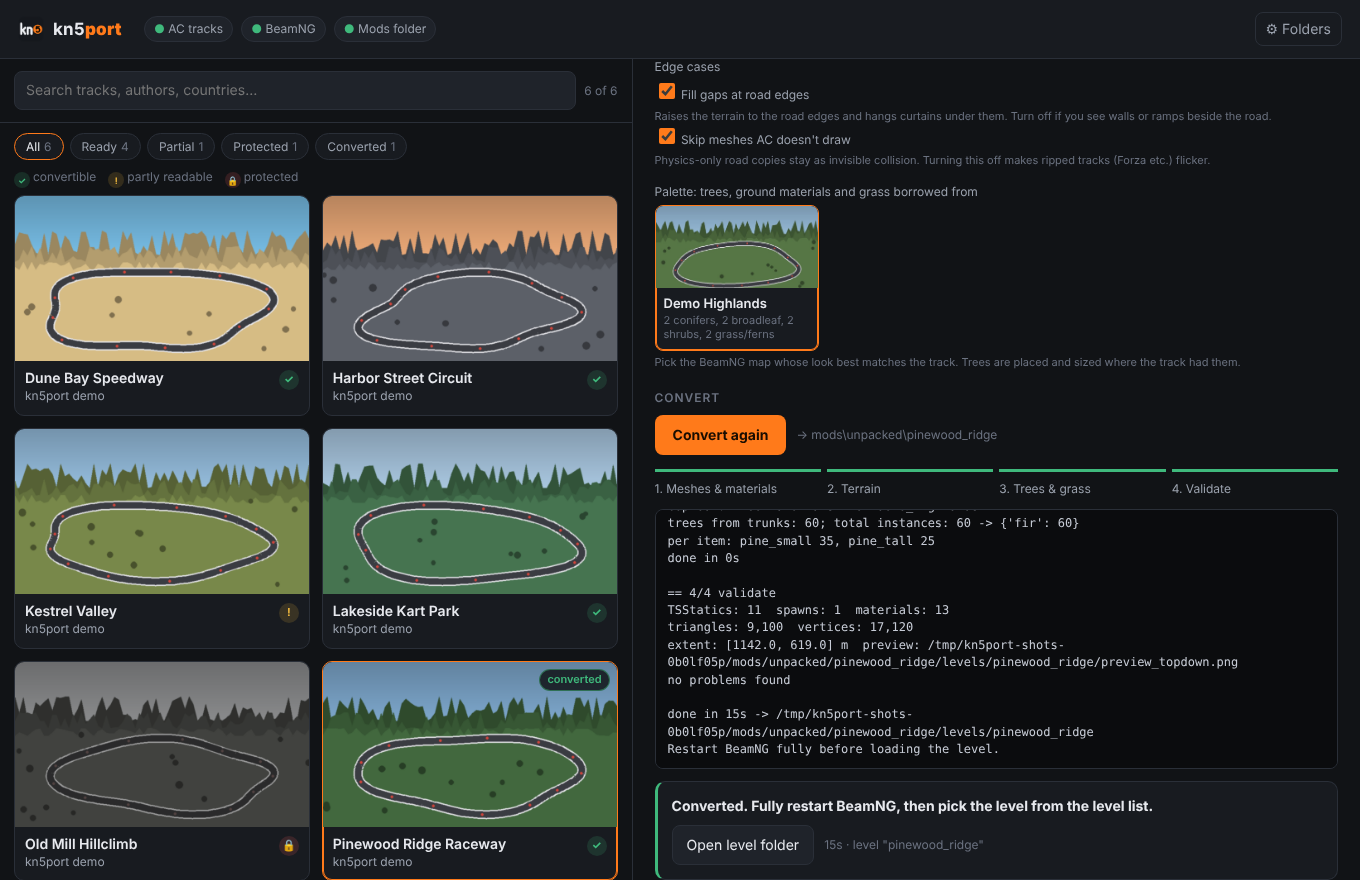
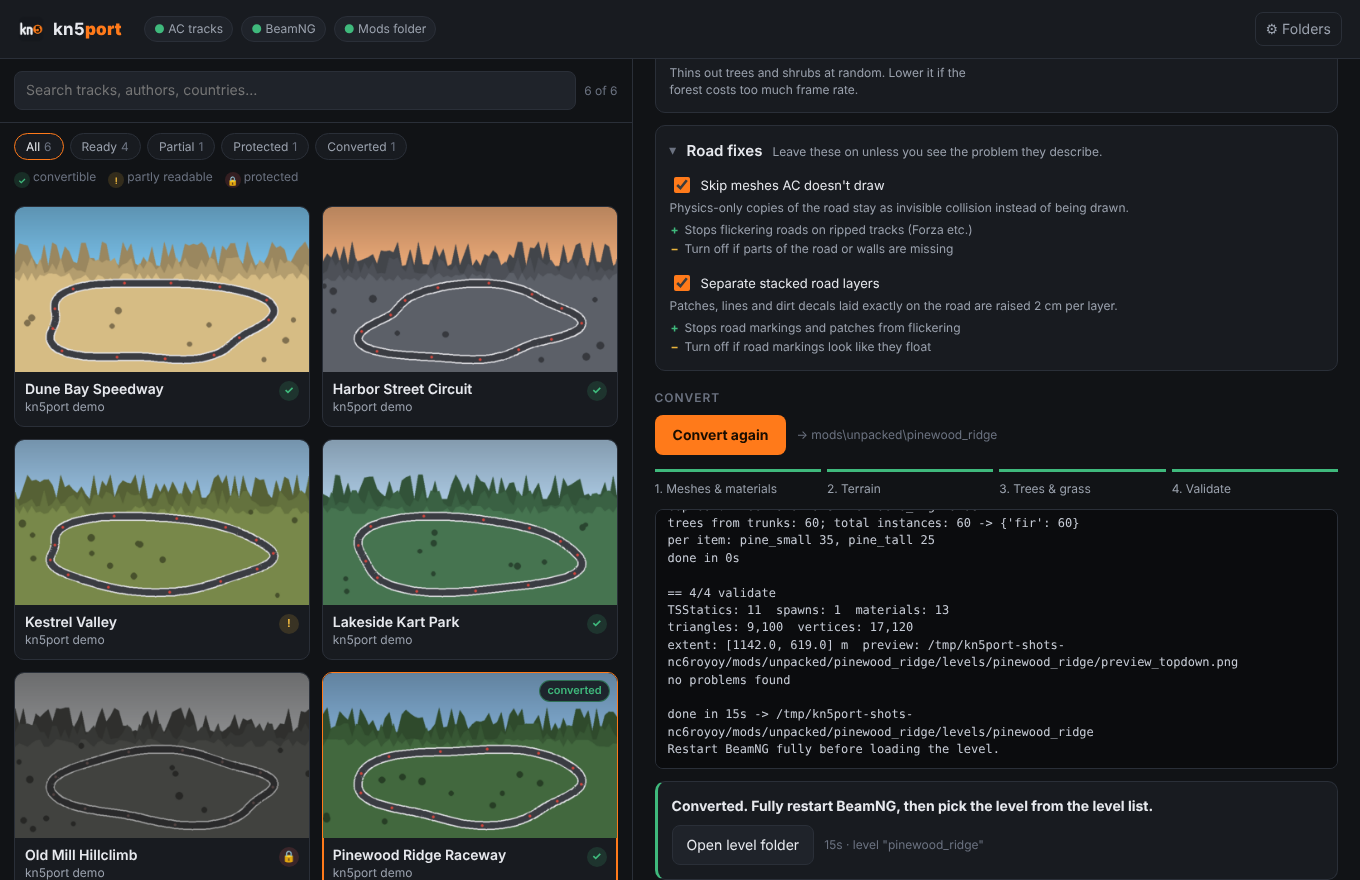
Redesign the conversion options with benefits and trade-offs (#5)
Group the options into Scenery style, Ground, Trees & grass and Road fixes.
Ground and Trees are choice cards listing what each option gains and costs;
sub-settings (terrain shading, edge fill, tree density) only show when they
apply. Descriptions name the selected palette map instead of always saying
West Coast USA, and the palette falls back to the first installed map when
West Coast USA isn't there.

Trees gains a Keep AC trees choice (--keep-ac-trees): unticking the old
checkbox removed every tree instead of keeping the originals.

Adds an options screenshot to the README and regenerates the others.

Claude-Session: https://claude.ai/code/session_01F2w93L6qBTh9nMnVU7MSJn

Changed region(s): [[0.0, 0.0614, 0.9574, 1.0], [0.4941, 0.8284, 0.525, 0.8591], [0.4941, 0.7364, 0.525, 0.767]]

diff --git a/kn5port/ui/static/index.html b/kn5port/ui/static/index.html
@@ -93,15 +93,41 @@ section h2 { font-size: 12px; text-transform: uppercase; letter-spacing: .08em; 
 .kv dt { color: var(--faint); }
 .kv dd { margin: 0; }
 .warnline { color: var(--warn); }
-.opts { display: grid; grid-template-columns: 1fr 1fr; gap: 14px 18px; }
-.opt label { display: block; font-size: 12px; color: var(--dim); margin-bottom: 5px; }
-.opt .hint { font-size: 11px; color: var(--faint); margin-top: 4px; }
-.seg { display: inline-flex; border: 1px solid var(--line); border-radius: 8px; overflow: hidden; }
-.seg button { background: none; border: 0; padding: 6px 12px; color: var(--dim); }
-.seg button.on { background: var(--panel2); color: var(--text); }
-input[type=range] { width: 100%; accent-color: var(--accent); }
-.rangeval { font-family: var(--mono); font-size: 12px; color: var(--text); float: right; }
-.check { display: flex; align-items: center; gap: 8px; color: var(--text); font-size: 13px; }
+.opts { display: flex; flex-direction: column; gap: 12px; }
+.og { background: var(--panel); border: 1px solid var(--line); border-radius: var(--radius); padding: 14px; display: flex; flex-direction: column; gap: 12px; }
+.og-t { font-weight: 600; font-size: 15px; }
+.og-s { font-size: 12px; color: var(--dim); margin-top: 2px; }
+.og-s b { color: var(--text); font-weight: 600; }
+.choices { display: grid; grid-template-columns: repeat(auto-fit, minmax(190px, 1fr)); gap: 8px; }
+.choice { text-align: left; background: var(--panel2); border: 1px solid var(--line); border-radius: 8px; padding: 10px 12px; display: flex; flex-direction: column; gap: 7px; color: var(--text); }
+.choice:hover { border-color: var(--faint); }
+.choice.on { border-color: var(--accent); box-shadow: 0 0 0 1px var(--accent) inset; }
+.choice .ct { font-weight: 600; display: flex; flex-wrap: wrap; gap: 4px 8px; align-items: center; }
+.choice .ct > i { font-style: normal; white-space: nowrap; }
+.choice .ct::before { content: ""; flex: none; width: 14px; height: 14px; border-radius: 50%; border: 2px solid var(--faint); box-sizing: border-box; }
+.choice.on .ct::before { border-color: var(--accent); background: radial-gradient(var(--accent) 0 3px, transparent 3.5px); }
+.rec { font-size: 10px; font-weight: 600; text-transform: uppercase; letter-spacing: .06em; color: var(--accent); border: 1px solid rgba(255,122,26,.45); border-radius: 99px; padding: 0 6px; }
+.pc { font-size: 12px; color: var(--dim); display: flex; flex-direction: column; gap: 3px; line-height: 1.4; }
+.pc > span { display: block; padding-left: 15px; position: relative; }
+.pc > span::before { position: absolute; left: 1px; font-weight: 700; }
+.pc > .p::before { content: "+"; color: var(--ok); }
+.pc > .c::before { content: "\2212"; color: var(--warn); }
+.subopts { border-top: 1px solid var(--line); padding-top: 12px; display: grid; grid-template-columns: 1fr 1fr; gap: 14px 22px; }
+.setting .st-t { font-size: 13px; color: var(--text); margin-bottom: 4px; display: flex; align-items: center; gap: 8px; }
+.setting .st-d { font-size: 12px; color: var(--dim); margin-top: 3px; }
+.setting .pc { margin-top: 5px; }
+.scale { display: flex; justify-content: space-between; font-size: 11px; color: var(--faint); }
+.note { font-size: 12px; color: var(--faint); }
+.note.warnline { color: var(--warn); }
+details.og > summary { cursor: pointer; list-style: none; display: flex; align-items: baseline; gap: 10px; }
+details.og > summary::-webkit-details-marker { display: none; }
+details.og > summary::before { content: "\25B8"; color: var(--faint); transition: transform .12s; display: inline-block; }
+details.og[open] > summary::before { transform: rotate(90deg); }
+details.og > summary .og-s { margin: 0; }
+.toggles { display: flex; flex-direction: column; gap: 14px; }
+input[type=range] { width: 100%; accent-color: var(--accent); margin: 2px 0; }
+.rangeval { font-family: var(--mono); font-size: 12px; color: var(--text); margin-left: auto; }
+.check { display: flex; align-items: center; gap: 8px; color: var(--text); font-size: 13px; cursor: pointer; }
 .check input { accent-color: var(--accent); width: 16px; height: 16px; }
 .actions { display: flex; gap: 10px; align-items: center; flex-wrap: wrap; }
 .primary { background: var(--accent); color: var(--accent-ink); border: 0; border-radius: 8px; padding: 10px 18px; font-weight: 700; }
@@ -129,7 +155,7 @@ dialog label { font-size: 12px; color: var(--dim); display: block; margin-bottom
 dialog input[type=text] { width: 100%; background: var(--panel2); border: 1px solid var(--line); border-radius: 8px; padding: 8px 10px; font-family: var(--mono); font-size: 12px; }
 .notice { line-height: 1.55; color: var(--dim); }
 .notice strong { color: var(--text); }
-@media (max-width: 900px) { main { grid-template-columns: 1fr; } #list { border-right: 0; border-bottom: 1px solid var(--line); max-height: 45vh; } .opts { grid-template-columns: 1fr; } }
+@media (max-width: 900px) { main { grid-template-columns: 1fr; } #list { border-right: 0; border-bottom: 1px solid var(--line); max-height: 45vh; } .subopts { grid-template-columns: 1fr; } }
 </style>
 </head>
 <body>
@@ -228,37 +254,96 @@ function renderGrid() {
   $("#grid").scrollTop = keepScroll;
 }
 
-function optionsHtml() {
-  const o = state.opts;
+// The palette defaults to West Coast USA, or the first map found if that one isn't installed.
+function paletteLevel() {
+  const p = state.opts.palette;
+  if (p && (!state.palettes.length || state.palettes.some((x) => x.level === p))) return p;
+  return state.palettes.some((x) => x.level === "west_coast_usa") || !state.palettes.length ? "west_coast_usa" : state.palettes[0].level;
+}
+const treesMode = () => state.opts.trees || "beamng";        // beamng | ac | none
+const pc = (pros, cons) => `<span class="pc">${pros.map((x) => `<span class="p">${x}</span>`).join("")}${cons.map((x) => `<span class="c">${x}</span>`).join("")}</span>`;
+const choice = (group, v, on, title, rec, pros, cons) => `
+  <button class="choice ${on ? "on" : ""}" data-g="${group}" data-v="${v}">
+    <span class="ct"><i>${title}</i>${rec ? '<span class="rec">Recommended</span>' : ""}</span>${pc(pros, cons)}</button>`;
+const toggle = (id, on, title, desc, pros, cons) => `
+  <div class="setting"><label class="check"><input type="checkbox" id="${id}" ${on ? "checked" : ""}> ${title}</label>
+    <div class="st-d">${desc}</div>${pc(pros, cons)}</div>`;
+const slider = (id, label, val, min, max, lo, hi, desc) => `
+  <div class="setting"><div class="st-t">${label}<span class="rangeval" id="v_${id}">${val.toFixed(2)}</span></div>
+    <input type="range" id="o_${id}" min="${min}" max="${max}" step="0.05" value="${val}">
+    <div class="scale"><span>${lo}</span><span>${hi}</span></div>
+    <div class="st-d">${desc}</div></div>`;
+
+function optionsHtml(t) {
+  const o = state.opts, terrain = o.terrain !== "off", trees = treesMode();
+  const map = `<b class="palname">${esc(pretty(paletteLevel()))}</b>`;
+  const ins = state.inspect[t.id];
+  const uses = [trees === "beamng" && "trees", trees === "beamng" && "shrubs", terrain && "ground materials",
+    (terrain || trees === "beamng") && "grass"].filter(Boolean);
+  const noGround = ins && !ins.error && !ins.terrain;
   return `
   <div class="opts">
-    <div class="opt"><label>Ground</label>
-      <div class="seg" id="o_terrain"><button data-v="auto" class="${o.terrain !== "off" ? "on" : ""}">BeamNG terrain</button><button data-v="off" class="${o.terrain === "off" ? "on" : ""}">Keep AC meshes</button></div>
-      <div class="hint">Terrain adds grass and proper ground materials; meshes are faster and exact.</div></div>
-    <div class="opt"><label>Trees &amp; grass</label>
-      <label class="check"><input type="checkbox" id="o_forest" ${o.forest !== false ? "checked" : ""}> Replace with BeamNG vegetation</label>
-      <div class="hint">Uses West Coast USA's trees, placed and scaled where the track had them.</div></div>
-    <div class="opt"><label>Tree density <span class="rangeval" id="v_density">${(o.tree_density ?? 1).toFixed(2)}</span></label>
-      <input type="range" id="o_density" min="0.2" max="1" step="0.05" value="${o.tree_density ?? 1}">
-      <div class="hint">Lower it if the forest costs too much frame rate.</div></div>
-    <div class="opt"><label>Terrain shading (AO) <span class="rangeval" id="v_ao">${(o.ao ?? 0.35).toFixed(2)}</span></label>
-      <input type="range" id="o_ao" min="0" max="1" step="0.05" value="${o.ao ?? 0.35}">
-      <div class="hint">Lower = lighter close-up ground.</div></div>
-    <div class="opt" style="grid-column:1/-1"><label>Edge cases</label>
-      <label class="check"><input type="checkbox" id="o_edgefill" ${o.edge_fill !== false ? "checked" : ""}> Fill gaps at road edges</label>
-      <div class="hint">Raises the terrain to the road edges and hangs curtains under them. Turn off if you see walls or ramps beside the road.</div>
-      <label class="check"><input type="checkbox" id="o_hidden" ${o.hide_hidden !== false ? "checked" : ""}> Skip meshes AC doesn't draw</label>
-      <div class="hint">Physics-only road copies stay as invisible collision. Turning this off makes ripped tracks (Forza etc.) flicker.</div>
-      <label class="check"><input type="checkbox" id="o_layers" ${o.separate_layers !== false ? "checked" : ""}> Separate stacked road layers</label>
-      <div class="hint">Patches, lines and dirt decals laid exactly on the road are raised 2 cm per layer so they don't flicker. Turn off only if road markings look like they float.</div></div>
-    <div class="opt" style="grid-column:1/-1"><label>Palette: trees, ground materials and grass borrowed from</label>
+    <div class="og">
+      <div><div class="og-t">Scenery style</div>
+        <div class="og-s">${uses.length ? `The ${uses.slice(0, -1).join(", ")} and ${uses[uses.length - 1]} come from a BeamNG map. Pick the one whose look best matches this track.`
+          : "Not used with these settings: the ground keeps AC's meshes and the trees aren't replaced."}</div></div>
       ${palettesHtml()}
-      <div class="hint">Pick the BeamNG map whose look best matches the track. Trees are placed and sized where the track had them.</div></div>
+    </div>
+
+    <div class="og">
+      <div><div class="og-t">Ground</div><div class="og-s">How the grass, dirt and hills around the road are built.</div></div>
+      <div class="choices">
+        ${choice("terrain", "auto", terrain, "BeamNG terrain", true,
+          [`3D grass and ground materials from ${map}`, "Lighting and shading that match BeamNG"],
+          ["Off-road ground shape is resampled to a grid, so small bumps soften", "Slower to convert"])}
+        ${choice("terrain", "off", !terrain, "Keep AC ground", false,
+          ["Exactly the ground the track author built", "Faster to convert"],
+          ["No 3D grass, flat AC textures that can look dated in BeamNG"])}
+      </div>
+      ${noGround ? `<div class="note">kn5port found no natural ground on this track, so it keeps AC's ground either way.</div>` : ""}
+      ${terrain ? `<div class="subopts">
+        ${slider("ao", "Terrain shading", o.ao ?? 0.35, 0, 1, "Lighter, flatter", "Darker, more depth",
+          "Ambient occlusion on the ground materials. Lower it if the ground looks too dark close up.")}
+        ${toggle("o_edgefill", o.edge_fill !== false, "Fill gaps at road edges",
+          "Raises the terrain to meet the road and hangs dirt curtains under its edges.",
+          ["No see-through gaps or floating road edges"], ["Can leave small walls or ramps beside raised roads"])}
+      </div>` : ""}
+    </div>
+
+    <div class="og">
+      <div><div class="og-t">Trees &amp; grass</div><div class="og-s">What happens to the track's trees, bushes and grass cards.</div></div>
+      <div class="choices">
+        ${choice("trees", "beamng", trees === "beamng", "BeamNG vegetation", true,
+          [`Proper 3D trees, shrubs and grass from ${map}`, "Placed and sized where the track had them"],
+          ["Species won't exactly match the original", "Dense forests cost frame rate"])}
+        ${choice("trees", "ac", trees === "ac", "Keep AC trees", false,
+          ["Exactly the original trees"],
+          ["Flat 2D cards that look like cardboard up close"])}
+        ${choice("trees", "none", trees === "none", "No trees", false,
+          ["Fastest to convert and to drive"], ["Bare landscape where the forest was"])}
+      </div>
+      ${trees === "beamng" ? `<div class="subopts">
+        ${slider("density", "Tree density", o.tree_density ?? 1, 0.2, 1, "Sparser, faster", "As in the track",
+          "Thins out trees and shrubs at random. Lower it if the forest costs too much frame rate.")}
+      </div>` : ""}
+    </div>
+
+    <details class="og" id="o_adv" ${state.advOpen ? "open" : ""}>
+      <summary><span class="og-t">Road fixes</span><span class="og-s">Leave these on unless you see the problem they describe.</span></summary>
+      <div class="toggles">
+        ${toggle("o_hidden", o.hide_hidden !== false, "Skip meshes AC doesn't draw",
+          "Physics-only copies of the road stay as invisible collision instead of being drawn.",
+          ["Stops flickering roads on ripped tracks (Forza etc.)"], ["Turn off if parts of the road or walls are missing"])}
+        ${toggle("o_layers", o.separate_layers !== false, "Separate stacked road layers",
+          "Patches, lines and dirt decals laid exactly on the road are raised 2 cm per layer.",
+          ["Stops road markings and patches from flickering"], ["Turn off if road markings look like they float"])}
+      </div>
+    </details>
   </div>`;
 }
 
 function palettesHtml() {
-  const sel = state.opts.palette || "west_coast_usa";
+  const sel = paletteLevel();
   if (!state.palettes.length)
     return `<div class="muted">${state.palettesLoading ? '<span class="spin"></span>Reading your BeamNG maps…' : "No BeamNG maps found. Set the BeamNG install under Folders."}</div>`;
   return `<div class="palettes" id="o_palette">${state.palettes.map((p) => `
@@ -323,7 +408,7 @@ function renderDetail() {
       ${t.tags.length ? `<div class="tags">${t.tags.map((g) => `<span class="chip">${esc(g)}</span>`).join("")}</div>` : ""}
       ${alert}
       <section><h2>What kn5port sees</h2>${inspectHtml(state.inspect[t.id])}</section>
-      <section><h2>Options</h2>${optionsHtml()}</section>
+      <section><h2>Options</h2>${optionsHtml(t)}</section>
       <section><h2>Convert</h2>
         <div class="actions">
           <button class="primary" id="go" ${busy || blocked || !state.settings.mods ? "disabled" : ""}>${t.converted ? "Convert again" : "Convert to BeamNG"}</button>
@@ -339,14 +424,22 @@ function renderDetail() {
 }
 
 function wireDetail(t) {
-  $("#o_terrain")?.addEventListener("click", (e) => { const v = e.target.dataset.v; if (v) { state.opts.terrain = v; renderDetail(); } });
-  $("#o_forest")?.addEventListener("change", (e) => { state.opts.forest = e.target.checked; });
+  document.querySelectorAll(".choice").forEach((b) => b.addEventListener("click", () => {
+    state.opts[b.dataset.g] = b.dataset.v;
+    const top = $("#detail").scrollTop; renderDetail(); $("#detail").scrollTop = top;
+  }));
   $("#o_density")?.addEventListener("input", (e) => { state.opts.tree_density = +e.target.value; $("#v_density").textContent = (+e.target.value).toFixed(2); });
+  $("#o_ao")?.addEventListener("input", (e) => { state.opts.ao = +e.target.value; $("#v_ao").textContent = (+e.target.value).toFixed(2); });
   $("#o_edgefill")?.addEventListener("change", (e) => { state.opts.edge_fill = e.target.checked; });
   $("#o_hidden")?.addEventListener("change", (e) => { state.opts.hide_hidden = e.target.checked; });
   $("#o_layers")?.addEventListener("change", (e) => { state.opts.separate_layers = e.target.checked; });
-  $("#o_ao")?.addEventListener("input", (e) => { state.opts.ao = +e.target.value; $("#v_ao").textContent = (+e.target.value).toFixed(2); });
-  $("#o_palette")?.addEventListener("click", (e) => { const b = e.target.closest(".pal"); if (b) { state.opts.palette = b.dataset.p; document.querySelectorAll(".pal").forEach((x) => x.classList.toggle("on", x === b)); } });
+  $("#o_adv")?.addEventListener("toggle", (e) => { state.advOpen = e.target.open; });
+  $("#o_palette")?.addEventListener("click", (e) => {
+    const b = e.target.closest(".pal"); if (!b) return;
+    state.opts.palette = b.dataset.p;
+    document.querySelectorAll(".pal").forEach((x) => x.classList.toggle("on", x === b));
+    document.querySelectorAll(".palname").forEach((x) => { x.textContent = pretty(b.dataset.p); });
+  });
   $("#go")?.addEventListener("click", () => convert(t.id));
   $("#cancel")?.addEventListener("click", () => api(`/api/jobs/${state.job.id}/cancel`, {}).catch(alert));
   $("#openLevel")?.addEventListener("click", () => api("/api/open", { track: t.id, what: "level" }).catch((e) => alert(e.message)));
@@ -369,8 +462,8 @@ async function convert(id) {
   const o = state.opts;
   try {
     state.job = await api("/api/convert", { track: id, options: {
-      terrain: o.terrain || "auto", forest: o.forest !== false,
-      tree_density: o.tree_density ?? 1, ao: o.ao ?? 0.35, palette: o.palette || "west_coast_usa",
+      terrain: o.terrain || "auto", forest: treesMode() === "beamng", keep_ac_trees: treesMode() === "ac",
+      tree_density: o.tree_density ?? 1, ao: o.ao ?? 0.35, palette: paletteLevel(),
       edge_fill: o.edge_fill !== false, hide_hidden: o.hide_hidden !== false,
       separate_layers: o.separate_layers !== false } });
     state.job.lines = state.job.lines || [];

diff --git a/packaging/screenshots.py b/packaging/screenshots.py
@@ -296,6 +296,12 @@ def shoot(page):
     page.wait_for_timeout(1500)
     page.screenshot(path=str(OUT / "track.png"))
     page.click(".pal")                                  # the demo palette (the default is West Coast USA)
+    page.click("#o_adv summary")                        # show the road fixes too
+    page.set_viewport_size({"width": 1360, "height": 3000})   # tall enough that the whole section is on screen
+    page.wait_for_timeout(300)
+    page.locator("section", has_text="Options").screenshot(path=str(OUT / "options.png"))
+    page.set_viewport_size({"width": 1360, "height": 880})
+    page.wait_for_timeout(300)
     page.click("#go")
     page.wait_for_selector(".box.result", timeout=300_000)
     page.wait_for_timeout(800)

diff --git a/kn5port/ui/server.py b/kn5port/ui/server.py
@@ -476,7 +476,9 @@ def make_handler(app, port_ref):
                                           ("near_gain", "--near-gain")):
                             if o.get(key) not in (None, ""):
                                 args += [flag, str(float(o[key]))]
-                        if o.get("forest") is False:
+                        if o.get("keep_ac_trees") is True:
+                            args += ["--keep-ac-trees"]
+                        elif o.get("forest") is False:
                             args += ["--no-forest"]
                         if o.get("edge_fill") is False:
                             args += ["--no-edge-fill"]

diff --git a/README.md b/README.md
@@ -45,6 +45,8 @@ pip install .[app]
 
 ![Picking a track: previews, convertibility status and what kn5port finds in it](docs/screenshots/track.png)
 
+![Conversion options, each with its benefits and trade-offs](docs/screenshots/options.png)
+
 ![A finished conversion with the validation results](docs/screenshots/converted.png)
 
 <sub>The tracks in these screenshots are made-up demo data (`python packaging/screenshots.py` regenerates them).</sub>
@@ -59,8 +61,9 @@ Run `kn5port.exe` (or `kn5port-app` from source). It:
   (can't be converted). Results are cached, so later launches are instant
 - right-click a track to open its Assetto Corsa folder, or the converted BeamNG level / mod folder
 - marks tracks already converted into your mods folder
-- converts with one button, with options for terrain, vegetation, tree density and terrain shading, and shows
-  live progress, the validation results and a button to open the level folder
+- converts with one button, with options for the scenery style (which BeamNG map to borrow trees, ground and
+  grass from), ground (BeamNG terrain or AC's own), trees (BeamNG vegetation, AC's trees or none), tree density,
+  terrain shading and road fixes, each listing its benefits and trade-offs; then shows live progress, the validation results and a button to open the level folder
 
 `kn5port ui` serves the same interface in your browser instead (only on `127.0.0.1`, with a per-session
 access token).
